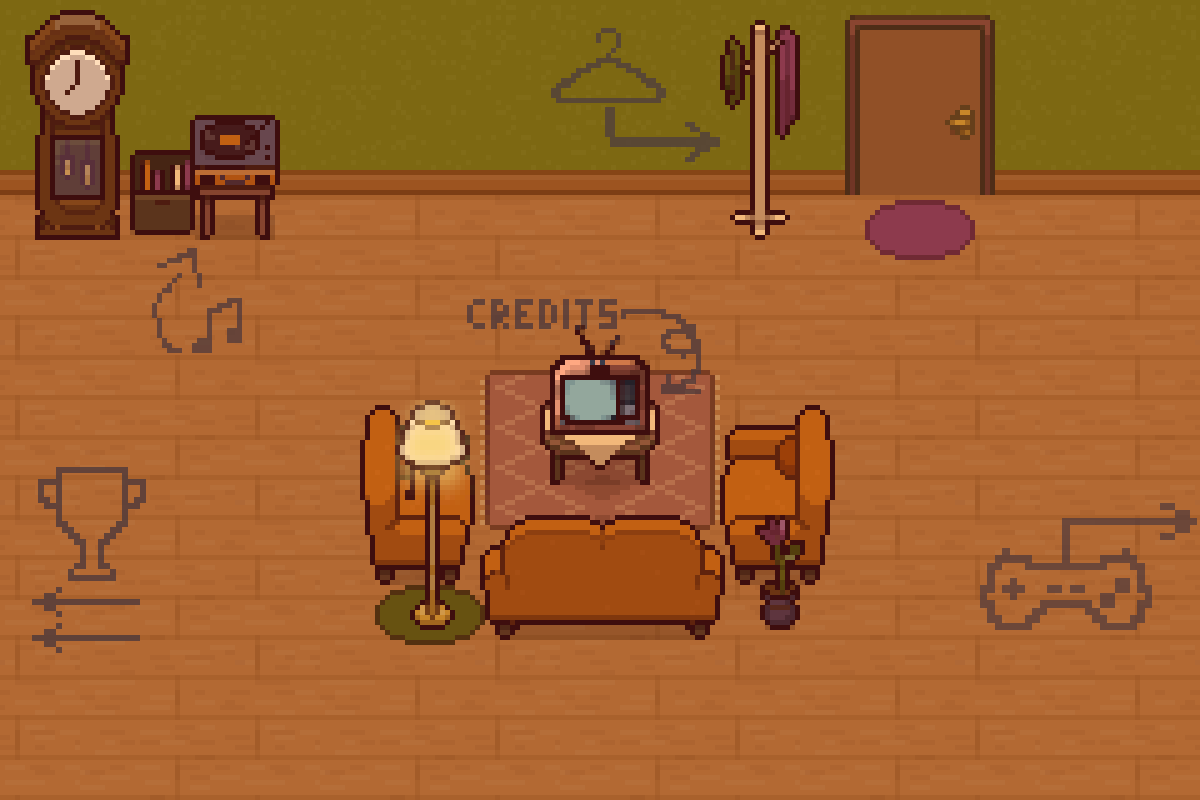
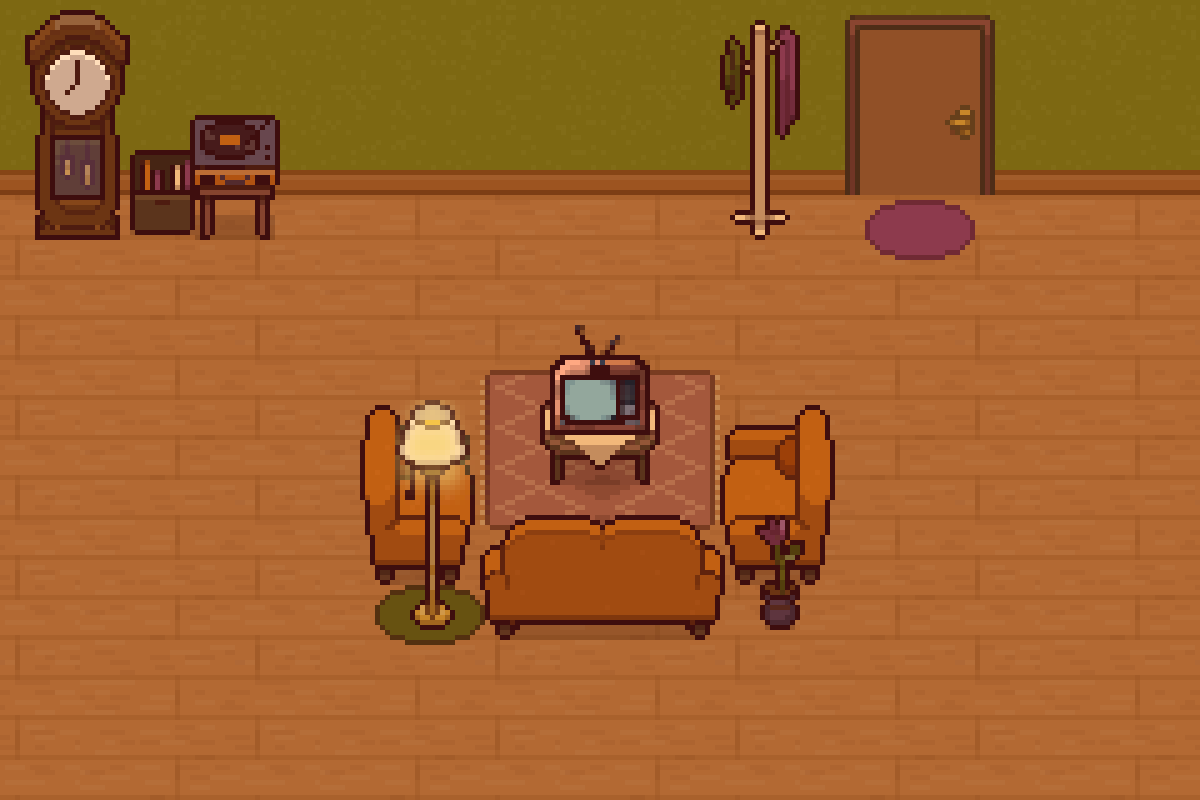
update: menu instruction

diff --git a/Visualize/MenuScreen.py b/Visualize/MenuScreen.py
@@ -42,6 +42,7 @@ class MenuScreen:
         """
 
         self.frame = morph_image(RESOURCE_PATH + SCENES[SCENE_NAME]["BG"], RESOLUTION)
+        self.instructions_frame = morph_image(RESOURCE_PATH + SCENES[SCENE_NAME]['BG_instructions'], RESOLUTION)
         self.screen = screen
         
         self.sounds_handler = sounds_handler
@@ -105,7 +106,7 @@ class MenuScreen:
                 self.mouse_handler.set_pos(mouse_pos)
 
                 self.screenCopy, self.hovered_obj = self.mouse_handler.get_hover_frame(self.screenCopy, self.hovered_obj)
-
+                
                 if event.type == pygame.MOUSEBUTTONUP:
                     self.chosen_door, self.chosen_obj = self.mouse_handler.click()
                     events.append(pygame.event.Event(pygame.USEREVENT, {}))
@@ -113,6 +114,13 @@ class MenuScreen:
                 
                 if event.type == pygame.KEYDOWN:
                     pressed = event.key
+                    
+                    if pressed == pl.K_SPACE:
+                        self.screen.blit(self.instructions_frame, (0, 0))
+                        self.player.update(self.screen.copy())
+                        pygame.display.flip()
+                        continue
+                    
                     player_response = self.player.handle_event(pressed)
                     if player_response == "Move":
                         pass

diff --git a/GameController.py b/GameController.py
@@ -23,7 +23,7 @@ class GameController:
     def __init__(self):
         pygame.init()
         pygame.key.set_repeat(200, 125)
-        initial_scene = "Login"
+        initial_scene = "Menu"
         self.game_state_manager = GameStateManager(initial_scene)  # [PROTOTYPE]
         self.clock = pygame.time.Clock()  # Define a variable to control the main loop
         self.screen = pygame.display.set_mode(RESOLUTION)  # Create a surface on screen that has the size of `resolution`

diff --git a/CONSTANTS.py b/CONSTANTS.py
@@ -42,6 +42,8 @@ SCENES = {
 
     'Menu': {
         'BG': 'livingRoom_BG.png',
+        
+        'BG_instructions': 'livingRoom_BG_instructions.png',
 
         'DOORS': {
             (11, 1): "Login",

diff --git a/Player.py b/Player.py
@@ -127,7 +127,7 @@ class Player:
         :param screenCopy:
         :return:
         """
-
+        print('updated')
         self.screen.blit(screenCopy.copy(), (0, 0))
         self.draw(screenCopy)
 

diff --git a/runner.py b/runner.py
@@ -5,7 +5,6 @@ def main():
     game = GameController()
     game.run()
 
-
 if __name__ == "__main__":
     main()
  
